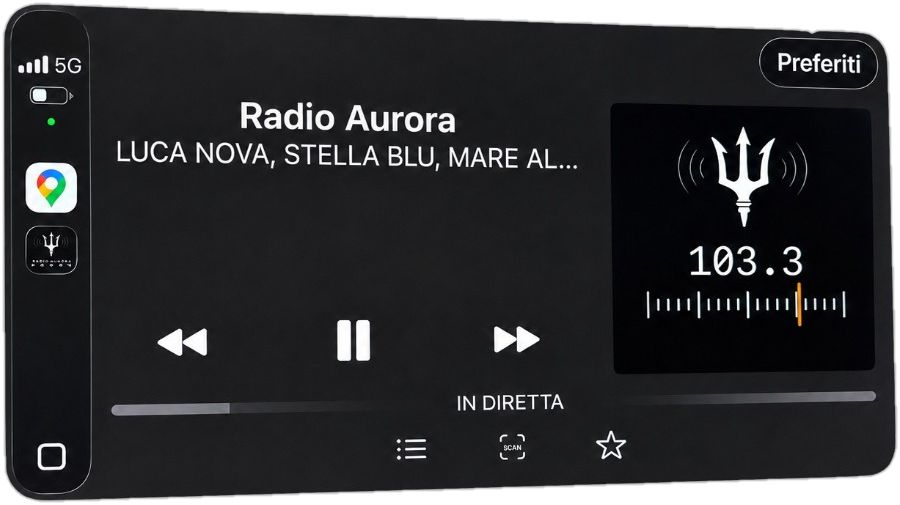
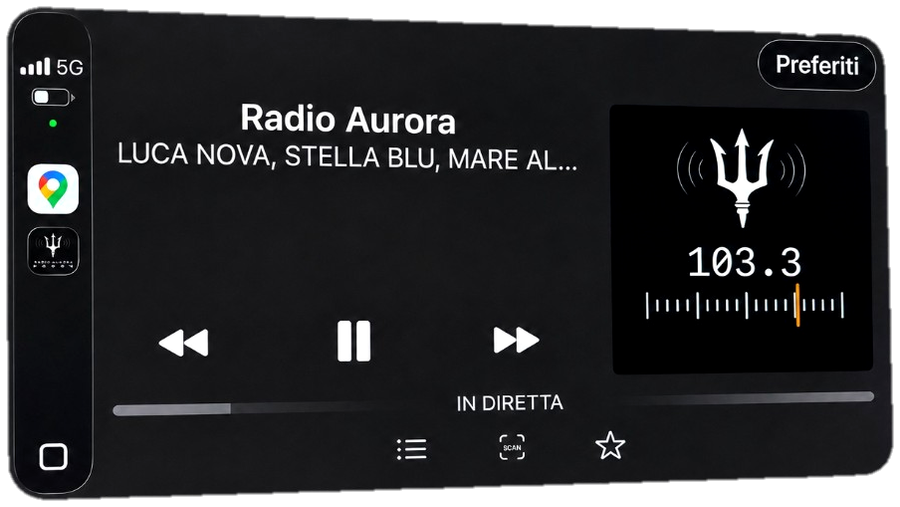
Polish Onde CarPlay image rendering

diff --git a/src/components/lab/lab.css b/src/components/lab/lab.css
@@ -1104,8 +1104,9 @@ a.onde-lang:hover {
   margin-inline: auto;
   background: transparent;
   border: none;
-  border-radius: 10px;
-  overflow: hidden;
+  outline: none;
+  border-radius: 0;
+  overflow: visible;
   box-shadow: none;
 }
 
@@ -1114,6 +1115,11 @@ a.onde-lang:hover {
   width: 100%;
   height: auto;
   object-fit: contain;
+  border: none;
+  outline: none;
+  /* Soft silhouette shadow for transparent PNG — no hard stroke */
+  filter: drop-shadow(0 16px 34px rgba(0, 0, 0, 0.55))
+    drop-shadow(0 4px 12px rgba(0, 0, 0, 0.4));
 }
 
 .lab-root--onde .onde-copy-sections .onde-carplay {
